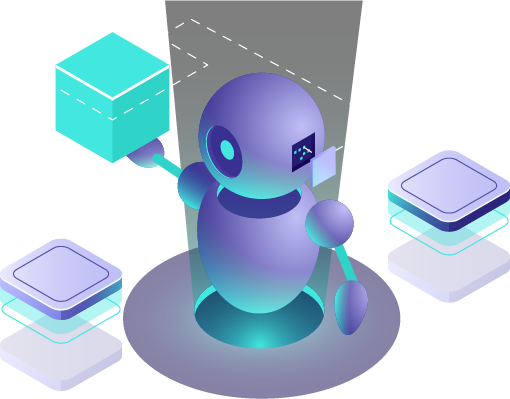
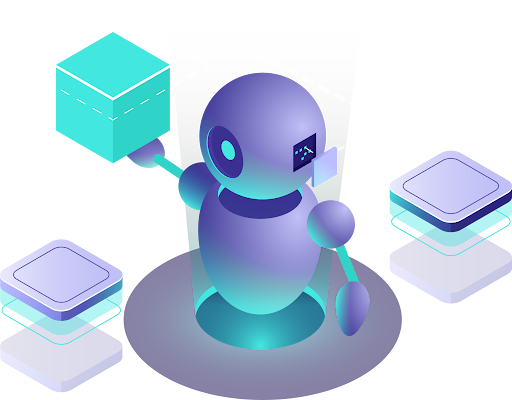
feat: add Curated Technologies section and update home page layout; include new tech stack images and adjust styling for better presentation

diff --git a/src/components/home-page/CuratedTechnologies.tsx b/src/components/home-page/CuratedTechnologies.tsx
@@ -1,0 +1,167 @@
+"use client";
+
+import Image from "next/image";
+import { SectionHeading } from "../ui/SectionHeading";
+import { GlowBackground } from "../ui/GlowBackground";
+
+const techCategories = [
+  {
+    title: "AI Agents",
+    imagePath: "/home-page/tech-stack/ai-agents.png", // Replace with your actual paths
+  },
+  {
+    title: "CRM and Marketing",
+    imagePath: "/home-page/tech-stack/crm-marketing.png",
+  },
+  {
+    title: "Project Management, Client Success",
+    imagePath: "/home-page/tech-stack/project-mgmt.png",
+  },
+  {
+    title: "Finance, Executive and HR",
+    imagePath: "/home-page/tech-stack/finance-hr.png",
+  },
+];
+
+export default function CuratedTechnologies() {
+  return (
+    <section className="px-6 relative">
+      <GlowBackground
+        style={{
+          top: "60%",
+          left: "60%",
+          width: "100%",
+          height: "60%",
+          background:
+            "radial-gradient(ellipse at center, rgba(96, 107, 250, 0.72) 0%, transparent 100%)",
+          transform: "translate(-50%, -50%) rotate(-40deg) scale(1.25)",
+          filter: "blur(100px)",
+          opacity: 0.8,
+        }}
+      />
+      <div className="mx-auto max-w-6xl">
+        {/* Section Header */}
+        <div className="text-center mb-16">
+          <SectionHeading size="large">
+            Curated <span className="text-[#606bfa]">AI And Automation</span>{" "}
+            Technologies
+          </SectionHeading>
+        </div>
+
+        {/* LARGE OUTER GLASS CONTAINER */}
+        <div
+          className="relative rounded-[40px] p-8 md:p-12 overflow-hidden"
+          style={{
+            background: "rgba(255, 255, 255, 0.02)",
+            backdropFilter: "blur(20px)",
+            border: "1px solid rgba(255, 255, 255, 0.1)",
+            boxShadow: "0 40px 100px -20px rgba(0, 0, 0, 0.7)",
+          }}
+        >
+          {/* Outer Container Border Highlights */}
+          <div
+            className="pointer-events-none absolute inset-0"
+            style={{
+              borderRadius: "40px",
+              padding: "1.5px",
+              background:
+                "linear-gradient(135deg, #fff 0%, transparent 30%, transparent 70%, #fff 100%)",
+              WebkitMask:
+                "linear-gradient(#fff 0 0) content-box, linear-gradient(#fff 0 0)",
+              WebkitMaskComposite: "xor",
+              maskComposite: "exclude",
+              opacity: 0.4,
+            }}
+          />
+
+          {/* INNER GRID */}
+          <div className="grid grid-cols-1 md:grid-cols-2 gap-8 relative z-10">
+            {techCategories.map((cat, idx) => (
+              <div
+                key={idx}
+                className="group relative flex flex-col rounded-xl transition-all duration-500 hover:scale-[1.01]"
+                style={{
+                  boxShadow: "0 25px 60px -10px rgba(0,0,0,0.5)",
+                }}
+              >
+                {/* The Main Card Body (Glass Fill) */}
+                <div
+                  className="absolute inset-0 rounded-xl"
+                  style={{
+                    background:
+                      "linear-gradient(135deg, rgba(255,255,255,0.01) 0%, rgba(255,255,255,0.06) 100%)",
+                    backdropFilter: "blur(10px)",
+                    zIndex: -2,
+                  }}
+                />
+
+                {/* CORNER LIGHT FLARES (Radial) */}
+                <div
+                  className="pointer-events-none absolute inset-0 rounded-xl"
+                  style={{
+                    background: `
+                      radial-gradient(circle at 0% 0%, rgba(255,255,255,0.2) 0%, transparent 35%),
+                      radial-gradient(circle at 100% 100%, rgba(255,255,255,0.15) 0%, transparent 25%)
+                    `,
+                    zIndex: -1,
+                  }}
+                />
+
+                <div className="flex flex-col h-full rounded-xl overflow-hidden relative m-2">
+                  {/* 1. Card Header - fakes transparency with a gradient matching the card background */}
+                  <div className="relative px-6 py-5 z-20 rounded-t-xl overflow-hidden">
+                    {/* The Content */}
+                    <p className="relative z-10 text-white font-semibold text-2xl tracking-tight">
+                      {cat.title}
+                    </p>
+
+                    {/* The 100% Transparent Gradient Border */}
+                    <div
+                      className="pointer-events-none absolute inset-0 rounded-t-xl"
+                      style={{
+                        padding: "1.5px",
+                        background:
+                          "linear-gradient(135deg, rgba(255,255,255,0.6) 0%, transparent 40%, transparent 60%, rgba(255,255,255,0.3) 100%)",
+                        WebkitMask:
+                          "linear-gradient(#fff 0 0) content-box, linear-gradient(#fff 0 0)",
+                        WebkitMaskComposite: "xor",
+                        maskComposite: "exclude",
+                      }}
+                    />
+
+                    {/* Subtle Internal Corner Glow */}
+                    <div
+                      className="absolute inset-0 pointer-events-none"
+                      style={{
+                        background:
+                          "radial-gradient(circle at 0% 0%, rgba(255,255,255,0.08) 0%, transparent 60%)",
+                      }}
+                    />
+                  </div>
+
+                  {/* 2. Logo Area - no bg needed, inherits white from parent */}
+                  <div className="flex-grow p-8 flex justify-center items-center min-h-[160px] relative z-10 bg-white">
+                    <Image
+                      src={cat.imagePath}
+                      alt={cat.title}
+                      width={400}
+                      height={150}
+                      className="object-contain relative z-10"
+                    />
+                  </div>
+                </div>
+              </div>
+            ))}
+          </div>
+        </div>
+
+        {/* BOTTOM SECTION */}
+        <div className="mt-20 text-center">
+          <p className="text-[1.25rem] font-light italic text-white tracking-wide">
+            And so many more...
+          </p>
+        </div>
+      </div>
+    </section>
+  );
+}

diff --git a/src/components/home-page/BusinessAdoption.tsx b/src/components/home-page/BusinessAdoption.tsx
@@ -1,6 +1,5 @@
 import { PrimaryButton } from "../ui/PrimaryButton";
 import { SectionHeading } from "../ui/SectionHeading";
-import { GlowBackground } from "../ui/GlowBackground";
 
 type BusinessType = {
   title: string;
@@ -33,20 +32,6 @@ const businessTypes: BusinessType[] = [
 export default function BusinessAdoption() {
   return (
     <section className="px-6 md:px-12 font-poppins relative">
-      <GlowBackground
-        style={{
-          top: "60%",
-          left: "60%",
-          width: "100%",
-          height: "60%",
-          background:
-            "radial-gradient(ellipse at center, rgba(96, 107, 250, 0.72) 0%, transparent 100%)",
-          transform: "translate(-50%, -50%) rotate(-40deg) scale(1.25)",
-          filter: "blur(100px)",
-          opacity: 0.8,
-        }}
-      />
-
       <div className="mx-auto max-w-6xl">
         {/* Header Section */}
         <div className="mx-auto mb-16 max-w-4xl text-center">

diff --git a/src/app/(frontend)/page.tsx b/src/app/(frontend)/page.tsx
@@ -7,14 +7,15 @@ import {
   Problems,
   Issues,
   Testimonials,
-  TargetedSolutions,
-  BusinessAdoption,
   OperationalFramework,
+  TargetedSolutions,
+  CuratedTechnologies,
+  BusinessAdoption,
   Tools,
   PrivateAiStack,
   AIPlaybook,
-  FAQSection,
   ContactSection,
+  FAQSection,
 } from "@/components/home-page";
 
 import { SectionDivider } from "@/components/ui/SectionDivider";
@@ -27,6 +28,7 @@ export default function Home() {
     { Component: Testimonials, id: "testimonials" },
     { Component: OperationalFramework, id: "framework" },
     { Component: TargetedSolutions, id: "solutions" },
+    { Component: CuratedTechnologies, id: "technologies" },
     { Component: BusinessAdoption, id: "adoption" },
     { Component: Tools, id: "tools" },
     { Component: PrivateAiStack, id: "stack" },

diff --git a/src/components/home-page/index.ts b/src/components/home-page/index.ts
@@ -1,13 +1,13 @@
 export { default as Hero } from "./Hero";
 export { default as Problems } from "./Problems";
 export { default as Issues } from "./Issues";
-export { default as TargetedSolutions } from "./TargetedSolutions";
-export { default as BusinessAdoption } from "./BusinessAdoption";
+export { default as Testimonials } from "./Testimonials";
 export { default as OperationalFramework } from "./OperationalFramework";
+export { default as TargetedSolutions } from "./TargetedSolutions";
+export { default as CuratedTechnologies } from "./CuratedTechnologies";
+export { default as BusinessAdoption } from "./BusinessAdoption";
 export { default as Tools } from "./Tools";
 export { default as PrivateAiStack } from "./PrivateAiStack";
-export { default as Testimonials } from "./Testimonials";
 export { default as AIPlaybook } from "./AIPlaybook";
 export { default as ContactSection } from "./ContactSection";
 export { default as FAQSection } from "./FAQSection";
-export { SectionHeading } from "../ui/SectionHeading";

diff --git a/src/components/home-page/TargetedSolutions.tsx b/src/components/home-page/TargetedSolutions.tsx
@@ -103,7 +103,7 @@ export default function TargetedSolutions() {
           {solutionCards.map((card) => (
             <article
               key={card.title}
-              className="group relative flex flex-col rounded-[35px] px-8 pb-10 pt-12 transition-all duration-500 hover:scale-[1.02]"
+              className="group relative flex flex-col items-center rounded-[35px] px-8 pb-10 pt-12 transition-all duration-500 hover:scale-[1.02]"
               style={{
                 minHeight: "620px",
                 backdropFilter: "blur(20px)",
@@ -143,7 +143,7 @@ export default function TargetedSolutions() {
                 }}
               />
 
-              <div className="relative z-10 flex h-full flex-col">
+              <div className="relative z-10 flex h-full flex-col w-[320px]">
                 <p className="text-center tracking-[0.2em] text-[#7c86fc] text-[1rem]">
                   {card.category}
                 </p>

diff --git a/src/components/home-page/Problems.tsx b/src/components/home-page/Problems.tsx
@@ -59,7 +59,7 @@ const GlassBadge = ({ stat }: { stat: string }) => (
       style={{
         mixBlendMode: "screen",
         background:
-          "radial-gradient(circle, rgba(255,255,255,0.8) 0%, transparent 70%)",
+          "radial-gradient(circle, rgba(255,255,255,0.4) 0%, transparent 70%)",
       }}
     />
   </div>